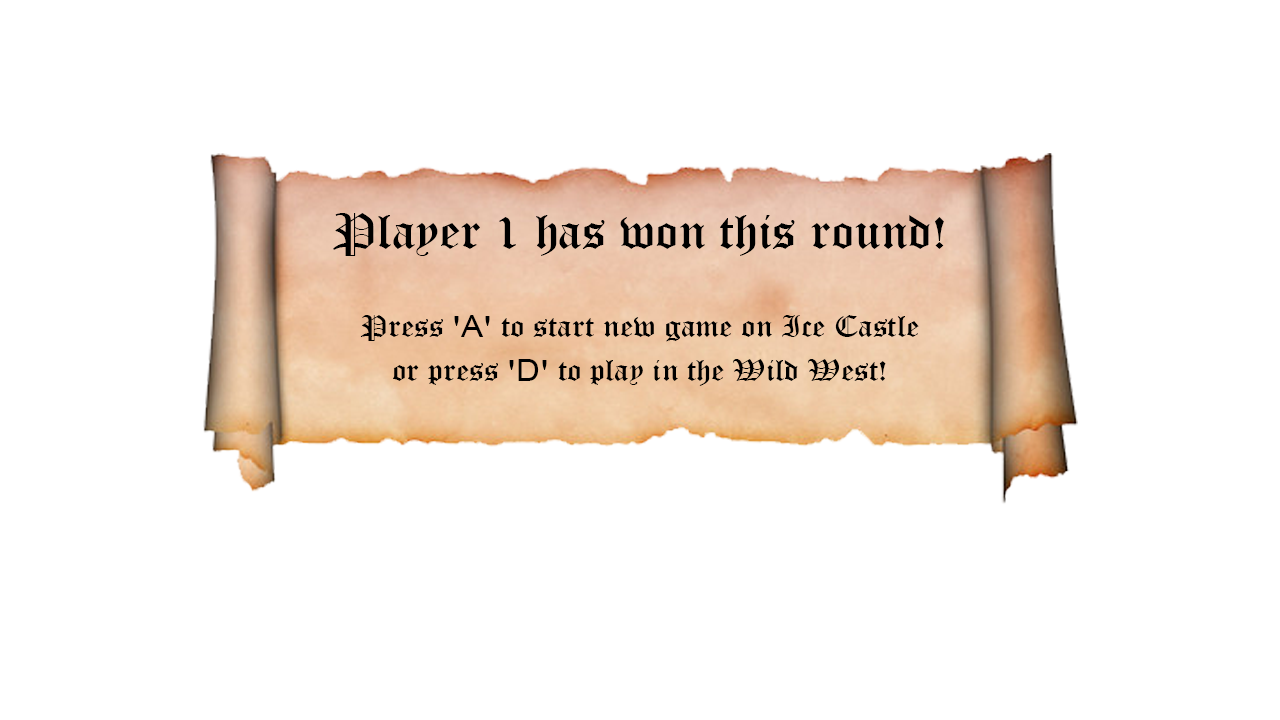
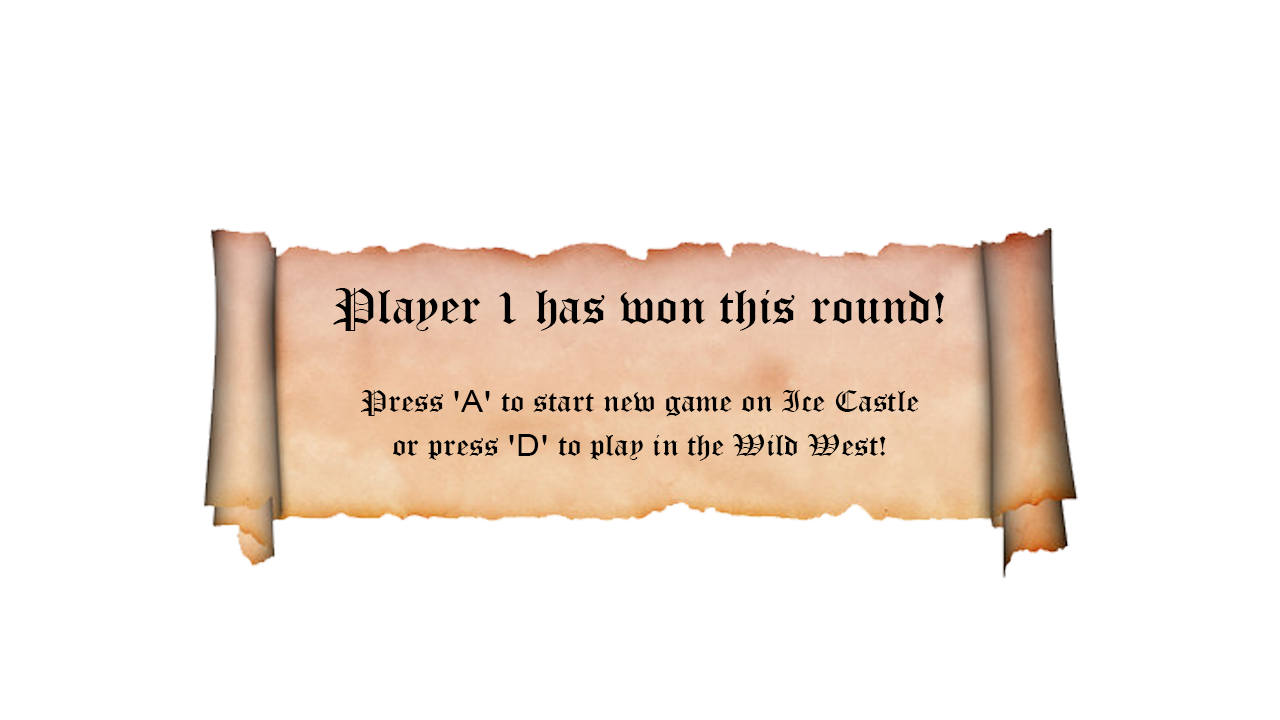
Updated title screen and hid bounds on sprites

Changed region(s): [[0.1562, 0.2139, 0.8438, 0.7944]]

diff --git a/src/object/Background.java b/src/object/Background.java
@@ -12,14 +12,14 @@ public class Background extends Sprite {
     public Background(String path) {
         super(path, new Vector2f(-16.0f / 2.0f, 9.0f / 2.0f), new Vector2f(16.0f / 2.0f, -9.0f / 2.0f));
 
-        this.showBounds = true;
+        this.showBounds = false;
 
         setSubImage(1, 1, 1280, 720);
 
         outterBounds = new BoundingBox(new Vector2f(-9f, -5.5f), new Vector2f(9f, 4.5f));
-        groundBound = new BoundingBox (new Vector2f(-8f, -5.5f), new Vector2f(8f, -3.5f)); //bottom
-        innerBounds.add(new BoundingBox (new Vector2f(-9f, -4.5f), new Vector2f(-8f, 4.5f))); //left
-        innerBounds.add(new BoundingBox (new Vector2f(8f, -4.5f), new Vector2f(9f, 4.5f))); //right
+        groundBound = new BoundingBox (new Vector2f(-8f, -5.5f), new Vector2f(8f, -3.8f)); //bottom
+        innerBounds.add(new BoundingBox (new Vector2f(-9f, -4.5f), new Vector2f(-8f, 20f))); //left
+        innerBounds.add(new BoundingBox (new Vector2f(8f, -4.5f), new Vector2f(9f, 20f))); //right
     }
 
     public void updateBG(float deltaTime, Matrix3x3f viewport) {

diff --git a/src/BesiegeYourFreinds/BYFApp.java b/src/BesiegeYourFreinds/BYFApp.java
@@ -64,8 +64,8 @@ public class BYFApp extends SimpleFramework {
                 currentPlayer = player1;
                 winner = 0;
 
-                player1.setLocation(new Vector2f(-7f, -3.125f));
-                player2.setLocation(new Vector2f ( 7f, -3.125f ));
+                player1.setLocation(new Vector2f(-7f, -3.425f));
+                player2.setLocation(new Vector2f ( 7f, -3.425f ));
                 isMenu = false;
                 disableControls = false;
             }
@@ -79,8 +79,8 @@ public class BYFApp extends SimpleFramework {
                 currentPlayer = player1;
                 winner = 0;
 
-                player1.setLocation(new Vector2f(-7f, -3.125f));
-                player2.setLocation(new Vector2f ( 7f, -3.125f ));
+                player1.setLocation(new Vector2f(-7f, -3.425f));
+                player2.setLocation(new Vector2f ( 7f, -3.425f ));
                 isMenu = false;
                 disableControls = false;
             }

diff --git a/src/object/PlayerSprite.java b/src/object/PlayerSprite.java
@@ -25,7 +25,7 @@ public class PlayerSprite extends Sprite {
 
         super("catapultspritesheet.png", new Vector2f(-0.375f, 0.375f), new Vector2f(0.375f, -0.375f));
 
-        this.showBounds = true;
+        this.showBounds = false;
         this.gravityApplies = true;
         this.bg = bg;
         this.tag = player;

diff --git a/src/object/Ammo.java b/src/object/Ammo.java
@@ -18,7 +18,7 @@ public class Ammo extends Sprite {
         super( "ammospritesheet.png", new Vector2f(-0.175f, 0.175f), new Vector2f(0.175f, -0.175f));
 
     //    this.type = type;
-        this.showBounds = true;
+        this.showBounds = false;
         this.gravityApplies = true;
         this.tag = player;
 

diff --git a/src/object/MenuManager.java b/src/object/MenuManager.java
@@ -22,7 +22,6 @@ public class MenuManager {
         titleScreen.update(deltaTime, viewport);
         player1Wins.update(deltaTime, viewport);
         player2Wins.update(deltaTime, viewport);
-
     }
 
     public void render(Graphics g) {
